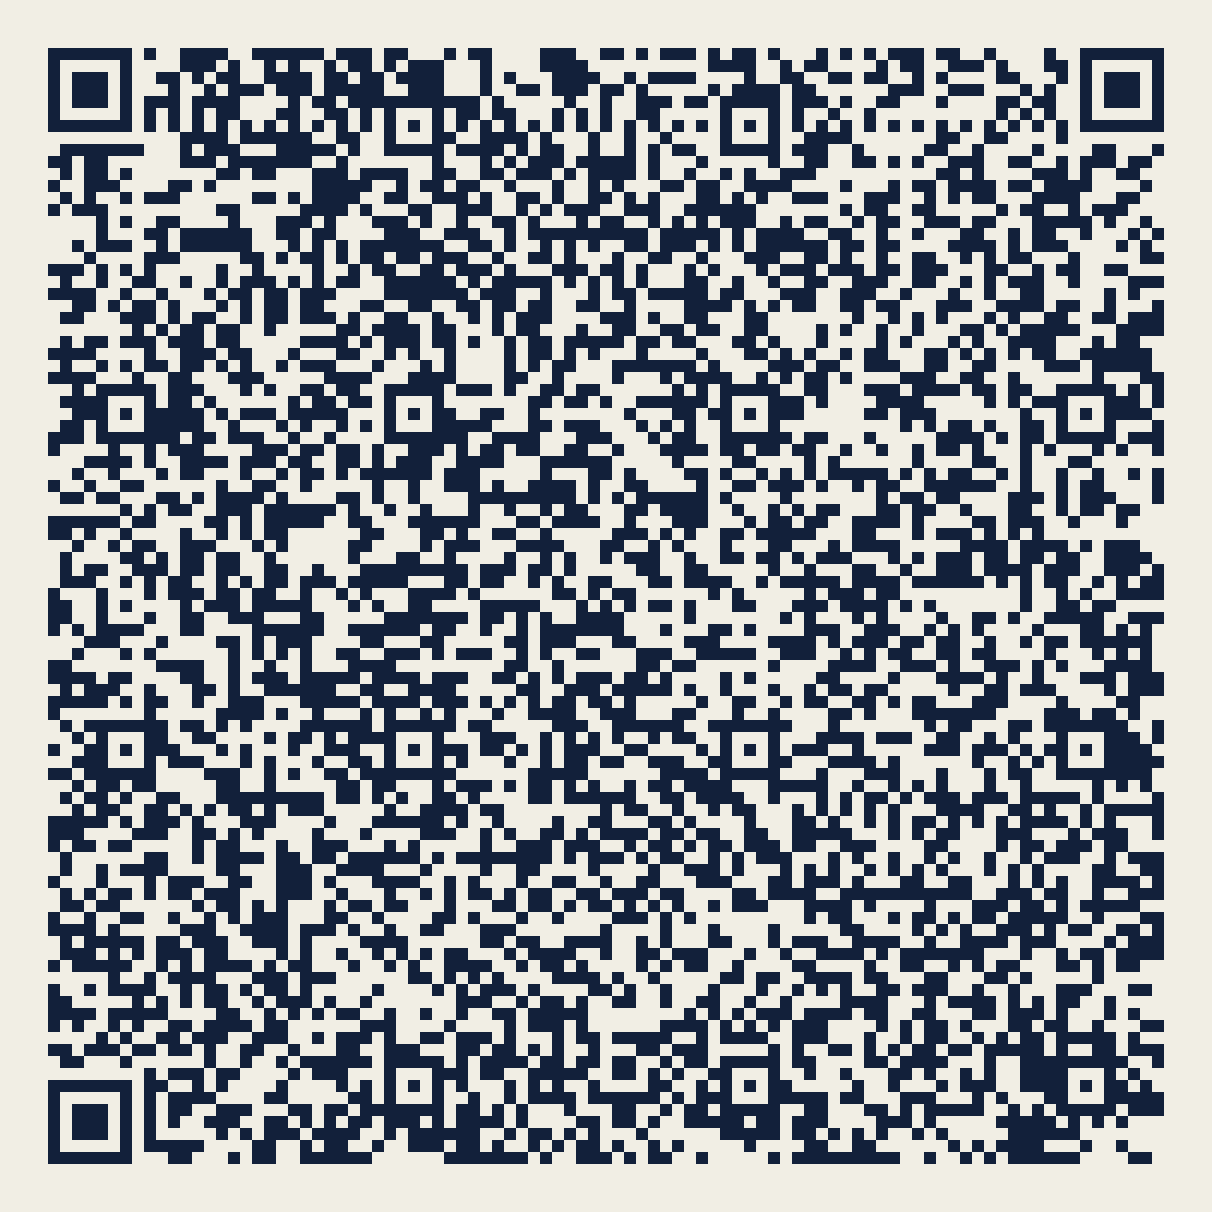
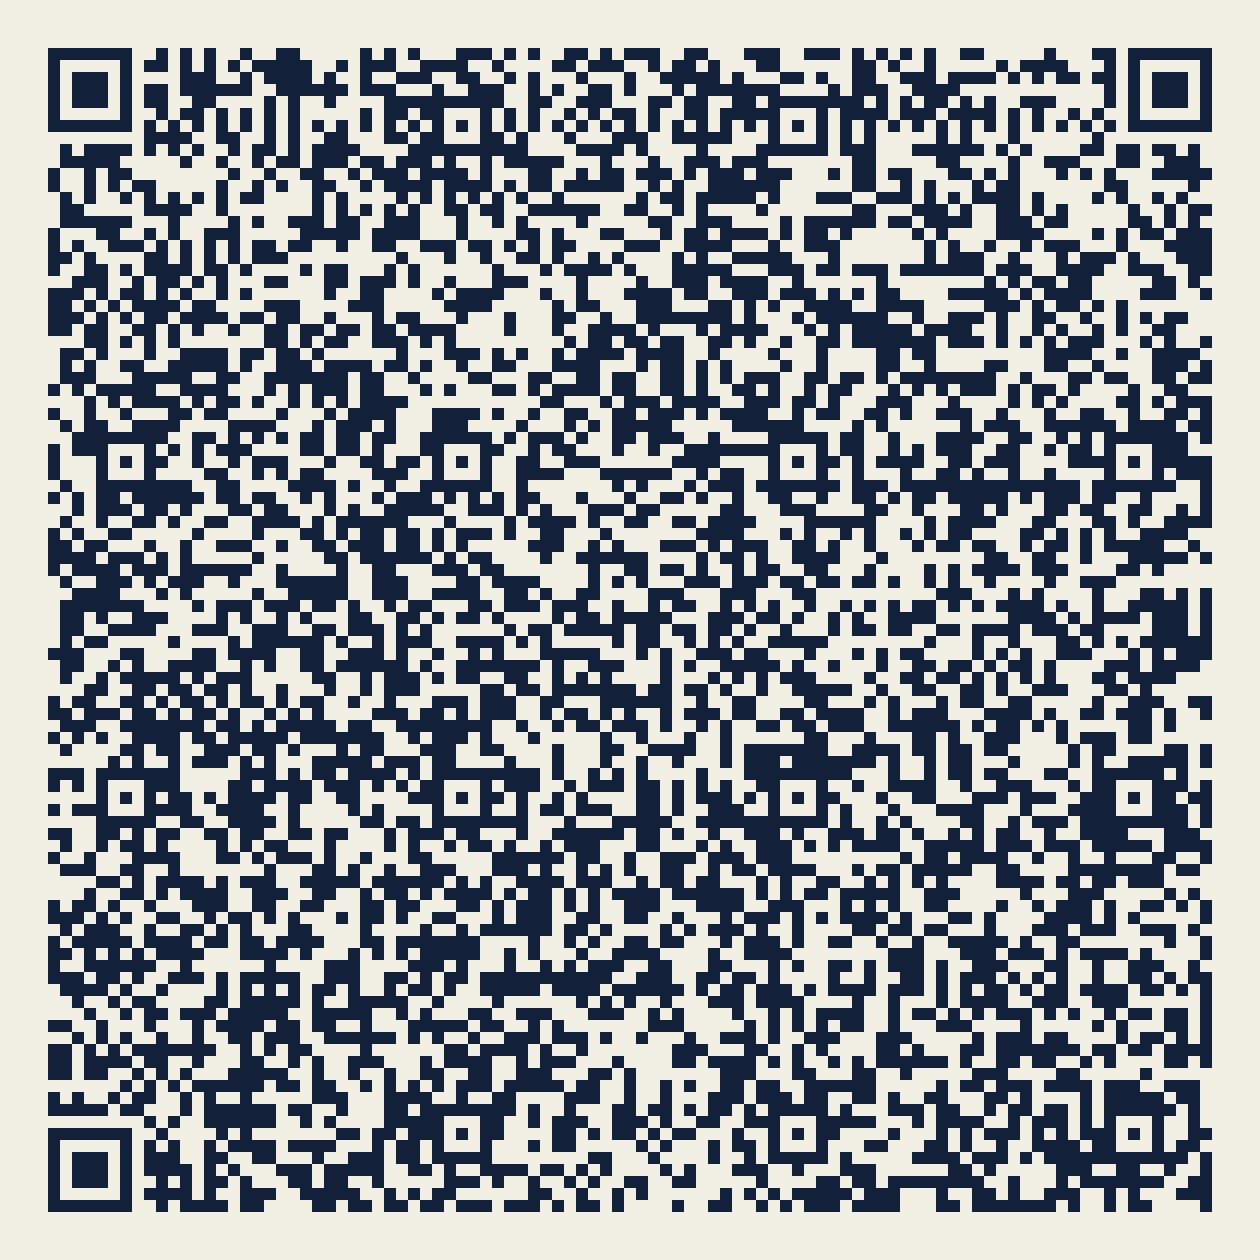
vCard QR：加上 CHARSET=UTF-8 與英文姓名備援，提升跨手機相容性

diff --git a/build_assets.py b/build_assets.py
@@ -48,15 +48,15 @@ print(f"\nqr_company_profile.png  -> {URL}")
 vcard = "\r\n".join([
     "BEGIN:VCARD",
     "VERSION:3.0",
-    "N:紀;曉菁;;;",
-    "FN:紀曉菁 (CHI HSIAO CHING)",
-    "ORG:廣利成股份有限公司 (KWAN LI CHENG CO., LTD.)",
-    "TITLE:業務經理 / Sales Manager",
+    "N;CHARSET=UTF-8:紀;曉菁;;;",
+    "FN;CHARSET=UTF-8:紀曉菁 Chi Hsiao Ching",
+    "ORG;CHARSET=UTF-8:廣利成股份有限公司 (KWAN LI CHENG CO., LTD.)",
+    "TITLE;CHARSET=UTF-8:業務經理 Sales Manager",
     "TEL;TYPE=CELL:+886921258767",
     "TEL;TYPE=WORK,VOICE:+88647873712",
     "EMAIL;TYPE=INTERNET,WORK:klccdltd@ms10.hinet.net",
     "URL:http://www.klccdltd.com/index.php?lang=tw",
-    "ADR;TYPE=WORK:;;彰化縣花壇鄉南方一巷385號;;;;台灣",
+    "ADR;TYPE=WORK;CHARSET=UTF-8:;;彰化縣花壇鄉南方一巷385號;;;;台灣",
     "END:VCARD",
     "",
 ])
